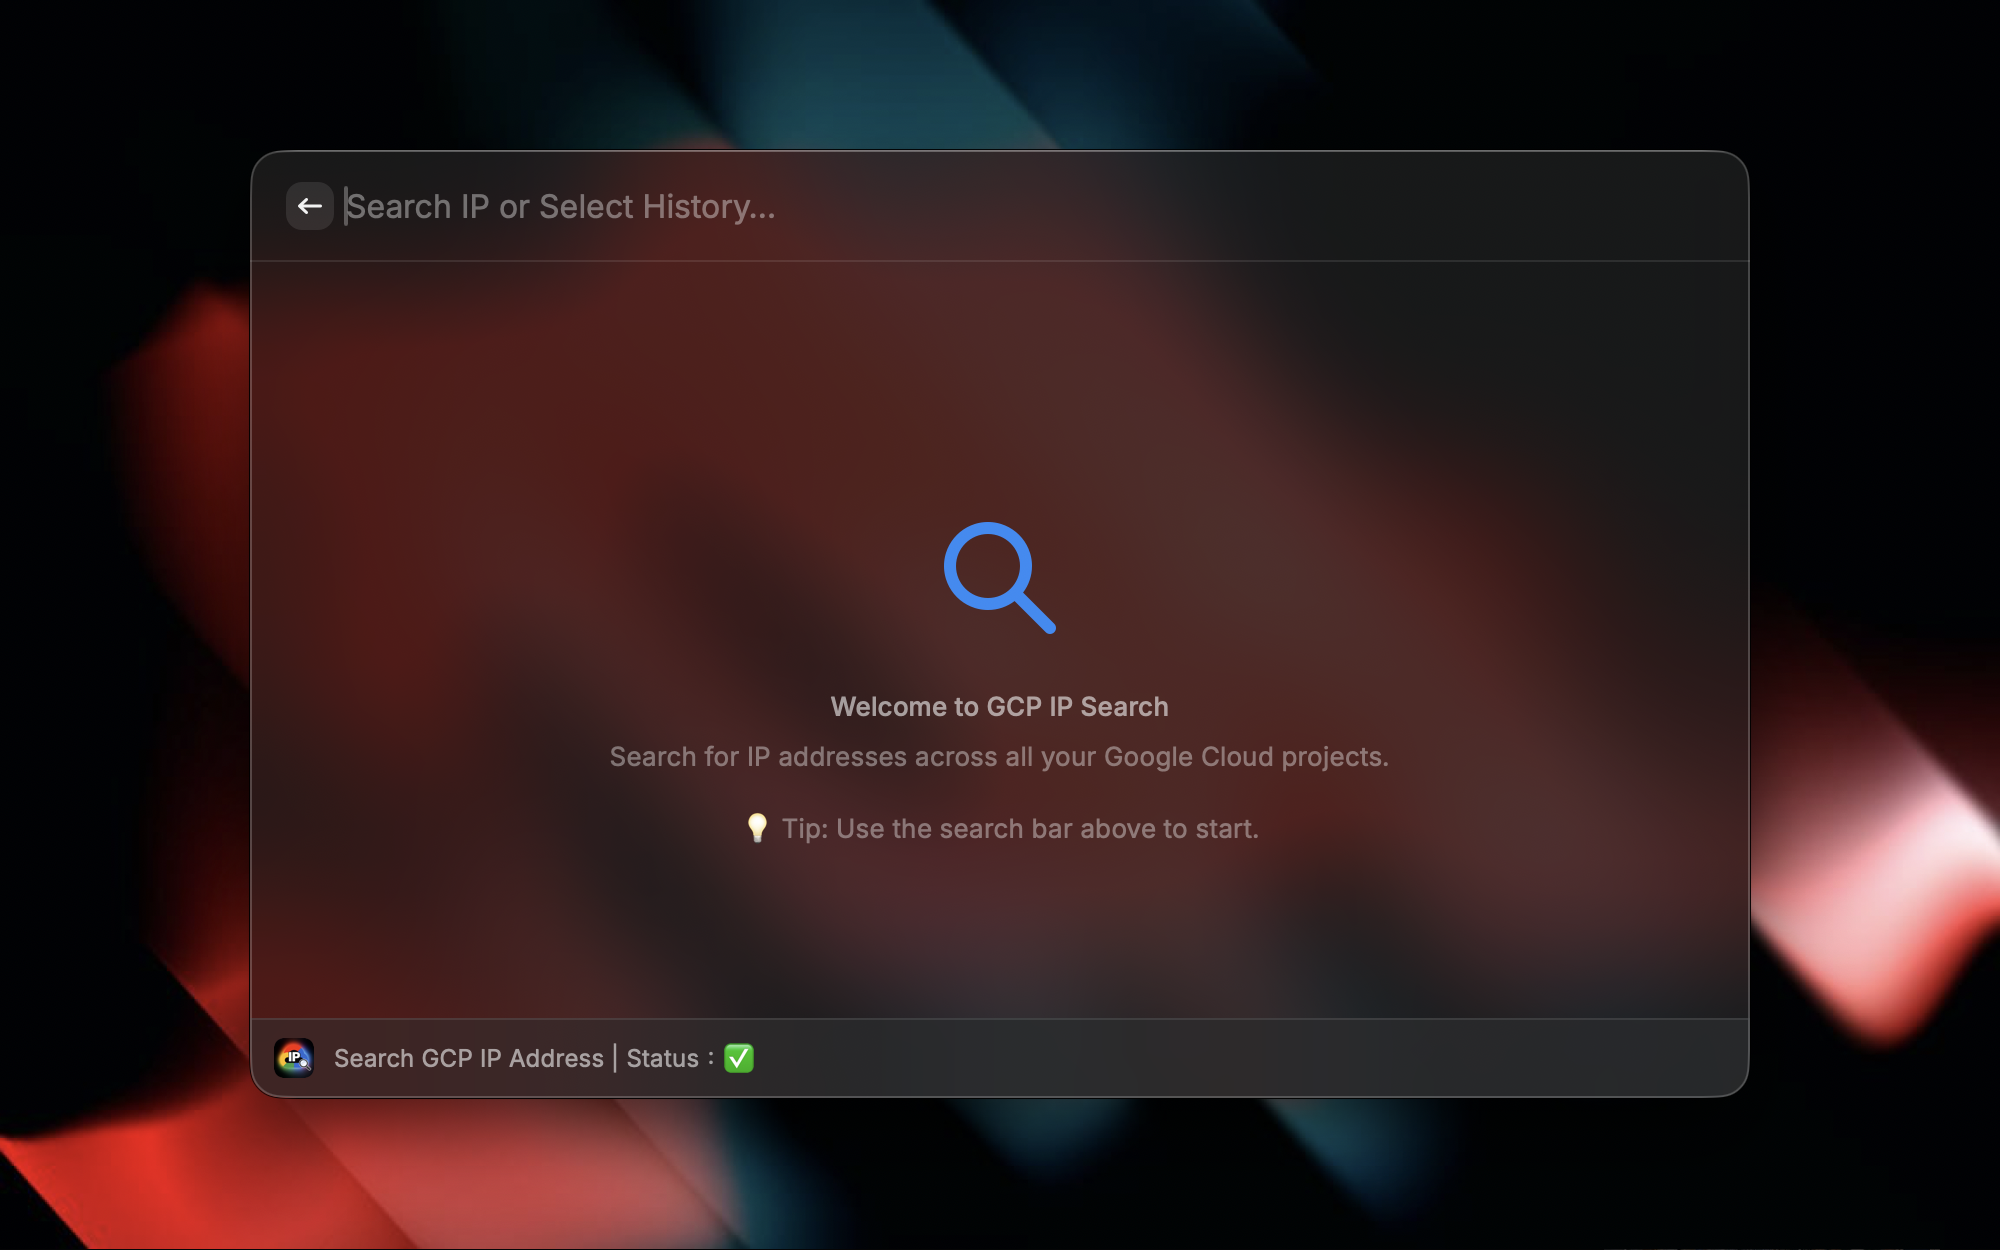
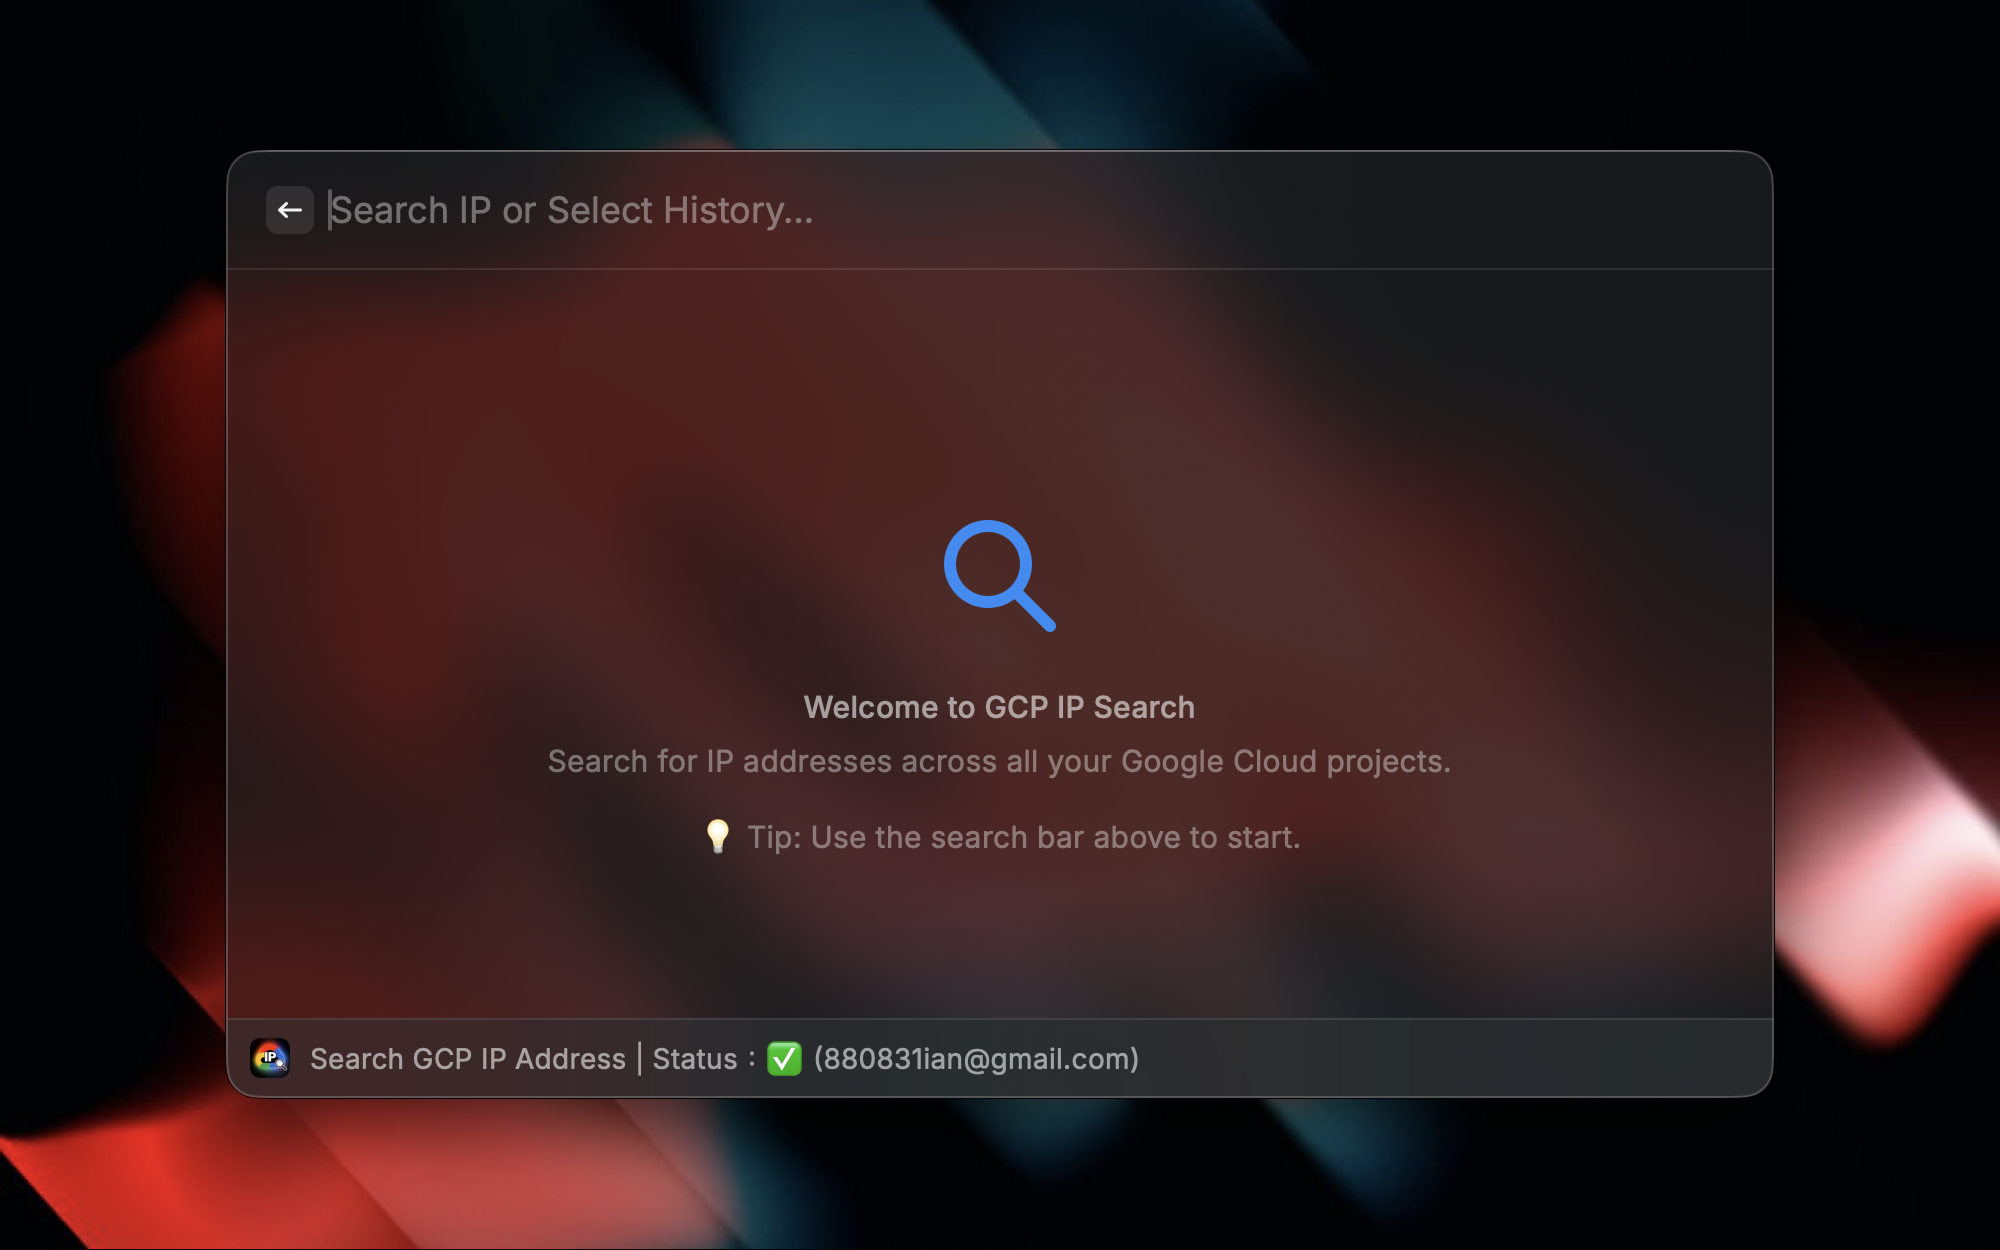
feat: update nav bar UI and improve IP history management
- Show the login account in the navigation bar for better user context.
- Automatically clear the IP list in history if a searched IP does not exist.

diff --git a/src/search-ip.tsx b/src/search-ip.tsx
@@ -77,37 +77,34 @@ function SearchCommand() {
     })();
   }, []);
 
-  // Save history helper
-  const saveHistory = useCallback(async (newHistory: HistoryItem[]) => {
-    setHistory(newHistory);
-    await LocalStorage.setItem("search-history", JSON.stringify(newHistory));
-  }, []);
-
   // Add result to history
   const addToHistory = useCallback(
     async (ip: string, results: SearchResult[]) => {
-      // Remove existing entry for this IP if any
-      const filtered = history.filter((h) => h.ip !== ip);
-      const newItem: HistoryItem = {
-        ip,
-        results,
-        timestamp: Date.now(),
-        projectCount: new Set(results.map((r) => r.projectId)).size,
-      };
-      const newHistory = [newItem, ...filtered].slice(0, 50); // Keep last 50
-      await saveHistory(newHistory);
+      setHistory((prev) => {
+        // Remove existing entry for this IP if any
+        const filtered = prev.filter((h) => h.ip !== ip);
+        const newItem: HistoryItem = {
+          ip,
+          results,
+          timestamp: Date.now(),
+          projectCount: new Set(results.map((r) => r.projectId)).size,
+        };
+        const newHistory = [newItem, ...filtered].slice(0, 50); // Keep last 50
+        LocalStorage.setItem("search-history", JSON.stringify(newHistory));
+        return newHistory;
+      });
     },
-    [history, saveHistory],
+    [],
   );
 
   // Remove from history
-  const removeFromHistory = useCallback(
-    async (ip: string) => {
-      const newHistory = history.filter((h) => h.ip !== ip);
-      await saveHistory(newHistory);
-    },
-    [history, saveHistory],
-  );
+  const removeFromHistory = useCallback(async (ip: string) => {
+    setHistory((prev) => {
+      const newHistory = prev.filter((h) => h.ip !== ip);
+      LocalStorage.setItem("search-history", JSON.stringify(newHistory));
+      return newHistory;
+    });
+  }, []);
 
   // Filter history
   const filteredHistory = useMemo(() => {
@@ -138,6 +135,7 @@ function SearchCommand() {
         ip={ip}
         onSaveToHistory={addToHistory}
         onSearchAgain={startSearch}
+        onRemoveFromHistory={removeFromHistory}
       />,
     );
   };
@@ -215,7 +213,7 @@ function SearchCommand() {
       searchText={searchText}
       navigationTitle={
         gcloudStatus.type === "success"
-          ? `Search GCP IP Address | Status：✅`
+          ? `Search GCP IP Address | Status：✅ ${gcloudStatus.account ? `(${gcloudStatus.account})` : ""}`
           : gcloudStatus.type === "error"
             ? `Search GCP IP Address | Status：🚫 (${gcloudStatus.message})`
             : `Search GCP IP Address | Status：Checking...`
@@ -241,52 +239,65 @@ function SearchCommand() {
 
       {!showWelcome && (
         <List.Section title="Recent Searches">
-          {filteredHistory.map((item) => (
-            <List.Item
-              key={item.ip}
-              title={item.ip}
-              subtitle={`${item.results.length} ${item.results.length === 1 ? "resource" : "resources"} found in ${item.projectCount} projects`}
-              accessories={[
-                { date: new Date(item.timestamp), tooltip: "Last searched" },
-              ]}
-              icon={Icon.Clock}
-              actions={
-                <ActionPanel>
-                  <Action
-                    title="View Results"
-                    icon={Icon.Eye}
-                    onAction={() => {
-                      // Check status before viewing
-                      if (gcloudStatus.type === "error") {
-                        return;
-                      }
-                      // Push with existing results to avoid re-searching
-                      push(
-                        <ResultsView
-                          ip={item.ip}
-                          initialResults={item.results}
-                          onSaveToHistory={addToHistory}
-                          onSearchAgain={startSearch}
-                        />,
-                      );
-                    }}
-                  />
-                  <Action
-                    title="Search Again"
-                    icon={Icon.ArrowClockwise}
-                    onAction={() => startSearch(item.ip)}
-                  />
-                  <Action
-                    title="Remove from History"
-                    icon={Icon.Trash}
-                    style={Action.Style.Destructive}
-                    onAction={() => removeFromHistory(item.ip)}
-                    shortcut={{ modifiers: ["ctrl"], key: "x" }}
-                  />
-                </ActionPanel>
-              }
-            />
-          ))}
+          {filteredHistory.map((item) => {
+            const projectInfos = Array.from(
+              new Set(
+                item.results.map(
+                  (r) => `${r.projectName || r.projectId} (${r.projectId})`,
+                ),
+              ),
+            ).join(", ");
+
+            return (
+              <List.Item
+                key={item.ip}
+                title={item.ip}
+                subtitle={`${item.results.length} ${
+                  item.results.length === 1 ? "resource" : "resources"
+                } found in ${projectInfos}`}
+                accessories={[
+                  { date: new Date(item.timestamp), tooltip: "Last searched" },
+                ]}
+                icon={Icon.Clock}
+                actions={
+                  <ActionPanel>
+                    <Action
+                      title="View Results"
+                      icon={Icon.Eye}
+                      onAction={() => {
+                        // Check status before viewing
+                        if (gcloudStatus.type === "error") {
+                          return;
+                        }
+                        // Push with existing results to avoid re-searching
+                        push(
+                          <ResultsView
+                            ip={item.ip}
+                            initialResults={item.results}
+                            onSaveToHistory={addToHistory}
+                            onSearchAgain={startSearch}
+                            onRemoveFromHistory={removeFromHistory}
+                          />,
+                        );
+                      }}
+                    />
+                    <Action
+                      title="Search Again"
+                      icon={Icon.ArrowClockwise}
+                      onAction={() => startSearch(item.ip)}
+                    />
+                    <Action
+                      title="Remove from History"
+                      icon={Icon.Trash}
+                      style={Action.Style.Destructive}
+                      onAction={() => removeFromHistory(item.ip)}
+                      shortcut={{ modifiers: ["ctrl"], key: "x" }}
+                    />
+                  </ActionPanel>
+                }
+              />
+            );
+          })}
         </List.Section>
       )}
 
@@ -310,6 +321,7 @@ interface ResultsViewProps {
   initialResults?: SearchResult[];
   onSaveToHistory: (ip: string, results: SearchResult[]) => Promise<void>;
   onSearchAgain: (ip: string) => Promise<void>;
+  onRemoveFromHistory: (ip: string) => Promise<void>;
 }
 
 function ResultsView({
@@ -317,6 +329,7 @@ function ResultsView({
   initialResults,
   onSaveToHistory,
   onSearchAgain,
+  onRemoveFromHistory,
 }: ResultsViewProps) {
   const [results, setResults] = useState<SearchResult[]>(initialResults || []);
   const [isLoading, setIsLoading] = useState(!initialResults);
@@ -361,10 +374,14 @@ function ResultsView({
 
         if (projects.length === 0) {
           if (isMounted) setIsLoading(false);
+
+          // Remove from history as the context (account) has changed and no projects are accessible
+          await onRemoveFromHistory(ip);
+
           await showToast({
             style: Toast.Style.Failure,
             title: "No GCP projects found",
-            message: "Check your gcloud auth",
+            message: "Check your gcloud auth. Removed from history.",
           });
           return;
         }
@@ -383,7 +400,7 @@ function ResultsView({
           const batchResults = await Promise.all(
             batch.map(async (project) => {
               try {
-                return await searchIPInProject(project.id, ip);
+                return await searchIPInProject(project.id, project.name, ip);
               } catch {
                 return [];
               } finally {
@@ -415,10 +432,13 @@ function ResultsView({
         if (searchResults.length > 0) {
           await onSaveToHistory(ip, searchResults);
         } else {
+          // If no results found, remove from history (since it might have been released)
+          await onRemoveFromHistory(ip);
+
           await showToast({
             style: Toast.Style.Failure,
             title: "No Resources Found",
-            message: `IP ${ip} was not found in any of your GCP projects.`,
+            message: `IP ${ip} was not found. Removed from history.`,
           });
         }
       } catch (error) {

diff --git a/src/utils.ts b/src/utils.ts
@@ -5,6 +5,7 @@ const execAsync = promisify(exec);
 
 export interface SearchResult {
   projectId: string;
+  projectName?: string;
   resourceType: "forwarding-rules" | "addresses" | "instances" | "routers";
   name: string;
   region?: string;
@@ -26,7 +27,7 @@ export interface SearchResult {
 }
 
 export type GcloudStatusType =
-  | { type: "success"; message: string }
+  | { type: "success"; message: string; account?: string }
   | { type: "loading"; message: string }
   | {
       type: "error";
@@ -133,13 +134,39 @@ export async function checkGcloudStatus(): Promise<GcloudStatusType> {
     };
   }
 
-  // 2. Try to list projects to verify auth
+  // 2. Try to list projects and get auth info
   try {
-    await getGCPProjects();
-    return { type: "success", message: "Connected" };
+    const gcloud = await getGcloudCommand();
+
+    // Check auth and get active account
+    const { stdout } = await execAsync(
+      `"${gcloud}" auth list --filter=status:ACTIVE --format="json(account)"`,
+    );
+    const authList = JSON.parse(stdout);
+    const activeAccount = authList[0]?.account;
+
+    if (!activeAccount) {
+      return {
+        type: "error",
+        message: "Not logged in",
+        errorType: "login_failed",
+      };
+    }
+
+    // Verify project access by listing one
+    await execAsync(`"${gcloud}" projects list --limit=1 --format="none"`);
+
+    return {
+      type: "success",
+      message: "Connected",
+      account: activeAccount,
+    };
   } catch (error) {
     const errorStr = String(error);
-    if (errorStr.includes("gcloud auth login")) {
+    if (
+      errorStr.includes("gcloud auth login") ||
+      errorStr.includes("Not logged in")
+    ) {
       return {
         type: "error",
         message: "Not logged in",
@@ -166,6 +193,7 @@ function getNameFromUrl(url: string): string {
  */
 export async function searchIPInProject(
   projectId: string,
+  projectName: string,
   ip: string,
 ): Promise<SearchResult[]> {
   const gcloud = await getGcloudCommand();
@@ -232,6 +260,7 @@ export async function searchIPInProject(
               // 1. Add the Instance Result
               instanceResults.push({
                 projectId,
+                projectName,
                 resourceType: "instances",
                 name: inst.name,
                 zone: inst.zone ? getNameFromUrl(inst.zone) : undefined,
@@ -254,6 +283,7 @@ export async function searchIPInProject(
               if (ip) {
                 instanceResults.push({
                   projectId,
+                  projectName,
                   resourceType: "addresses",
                   name: "-", // Use "-" as name for ephemeral per user request
                   region: inst.zone
@@ -308,6 +338,7 @@ export async function searchIPInProject(
 
               const addressResult: SearchResult = {
                 projectId,
+                projectName,
                 resourceType: "addresses",
                 name: displayName,
                 region: addr.region ? getNameFromUrl(addr.region) : "global",
@@ -344,6 +375,7 @@ export async function searchIPInProject(
 
                     addressResults.push({
                       projectId,
+                      projectName,
                       resourceType: "routers",
                       name: routerName,
                       region: routerRegion,
@@ -386,6 +418,7 @@ export async function searchIPInProject(
             }) => {
               fwResults.push({
                 projectId,
+                projectName,
                 resourceType: "forwarding-rules",
                 name: rule.name,
                 region: rule.region ? getNameFromUrl(rule.region) : "global",
@@ -401,6 +434,7 @@ export async function searchIPInProject(
               if (rule.IPAddress) {
                 fwResults.push({
                   projectId,
+                  projectName,
                   resourceType: "addresses",
                   name: "-", // Synthetic name
                   region: rule.region ? getNameFromUrl(rule.region) : "global",
